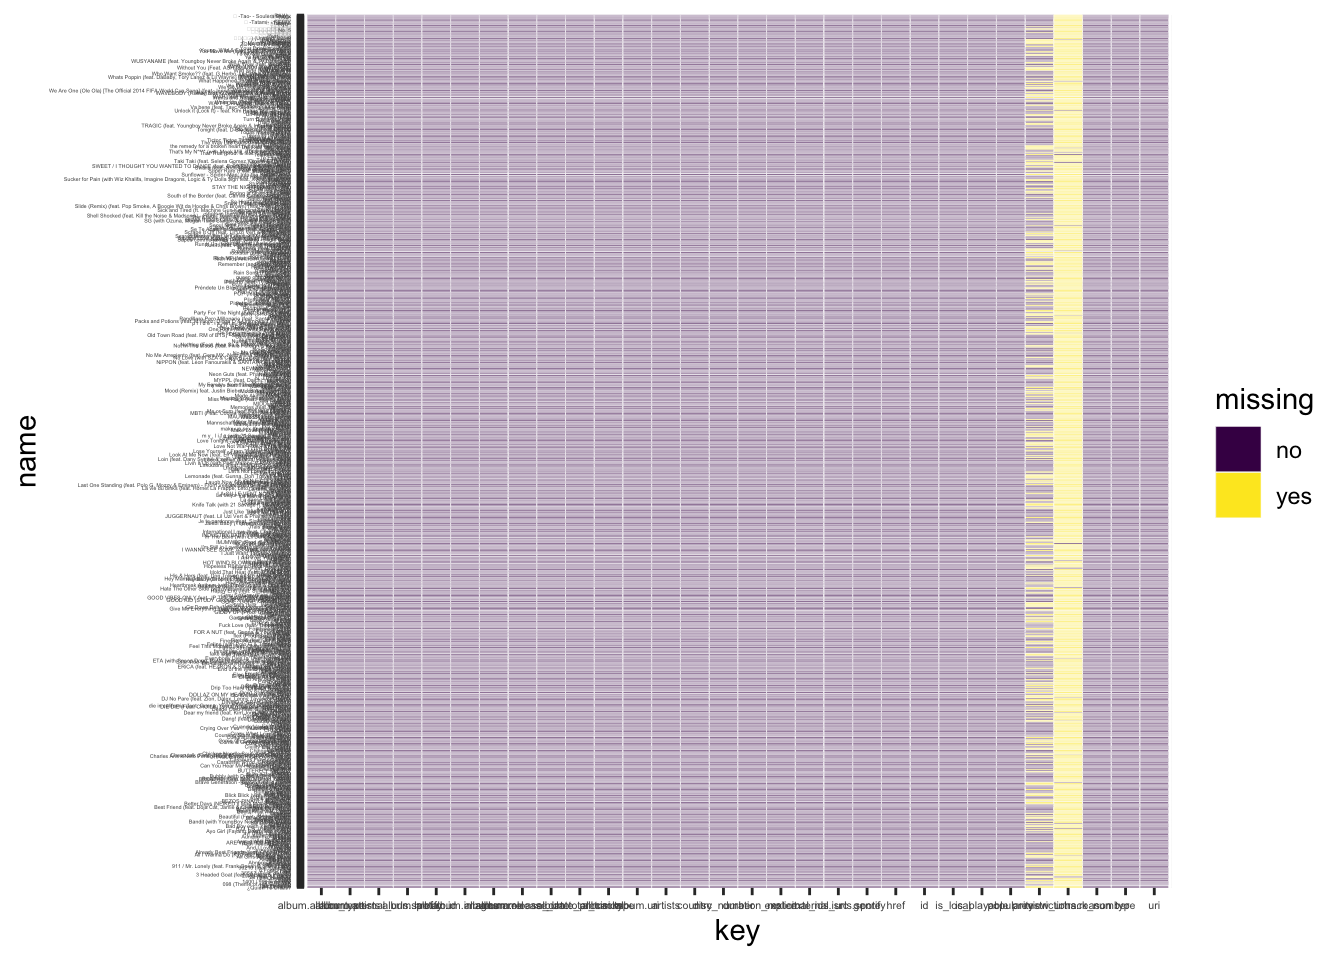
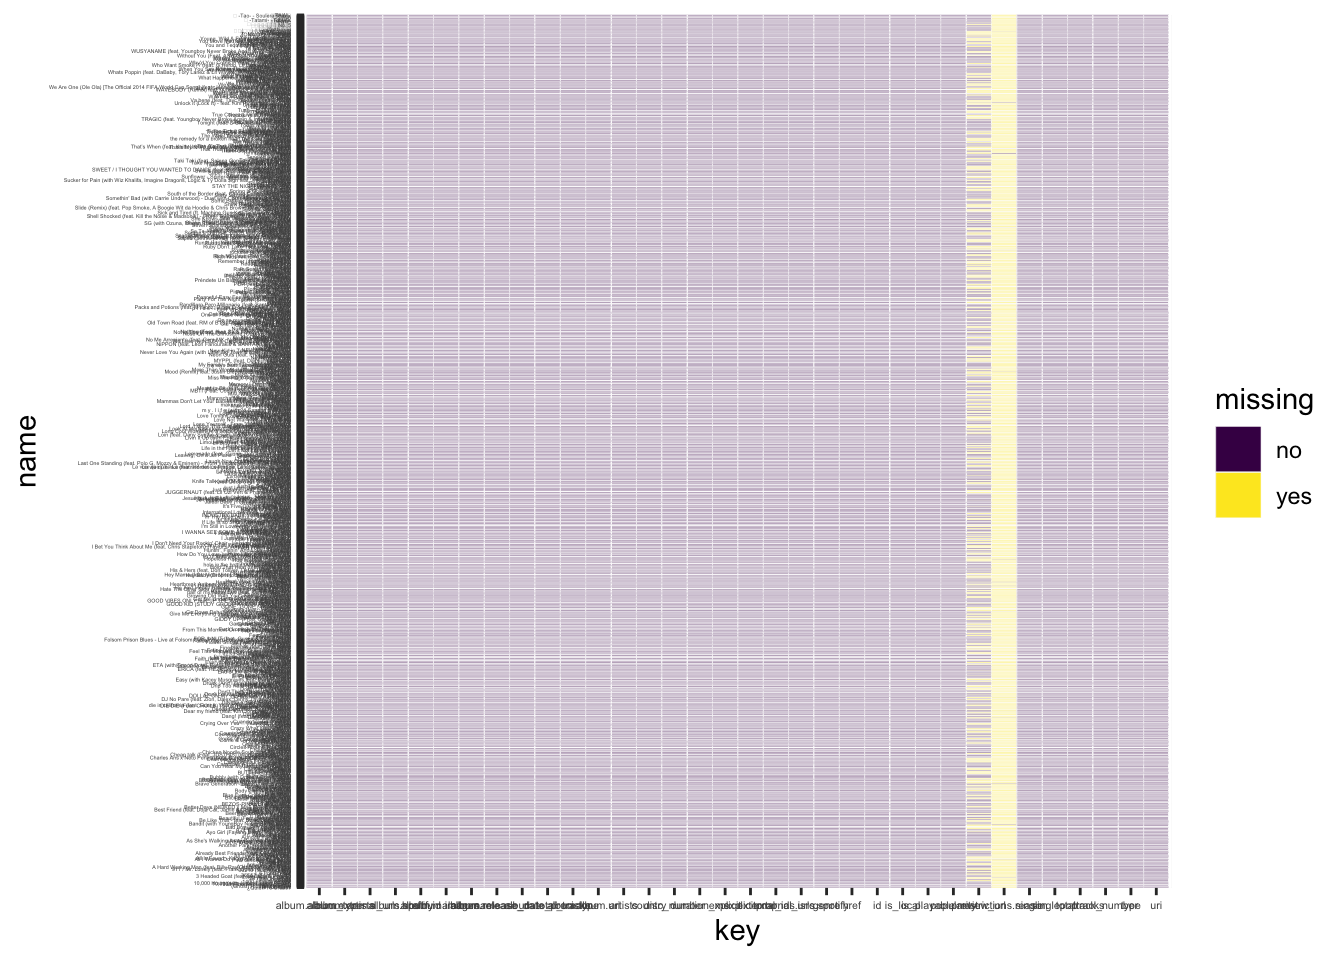
missing values commentary

diff --git a/docs/missing-values.html b/docs/missing-values.html
@@ -100,7 +100,13 @@
             <section class="normal" id="section-">
 <div id="missing-values" class="section level1 hasAnchor" number="4">
 <h1><span class="header-section-number">Chapter 4</span> Missing values<a href="missing-values.html#missing-values" class="anchor-section" aria-label="Anchor link to header"></a></h1>
-<p><img src="finalproj_files/figure-html/unnamed-chunk-5-1.png" width="672" /><img src="finalproj_files/figure-html/unnamed-chunk-5-2.png" width="672" /><img src="finalproj_files/figure-html/unnamed-chunk-5-3.png" width="672" /></p>
+<p>Fortunately, our dataset does not have too many NA’s where it matters. As we obtain our data through Spotify’s API, most of the variables we are interested in contain information on an artist or a song. This information is the most current data available - say the number of the popularity of an artist or the audio features of a song. Most of these variables are generated by Spotify automatically, and therefore we rarely see unavailable data.</p>
+<p>The following NA analysis is conducted on our main dataset that brings together the most popular rap and country songs across 8 different markets. Each row is a different track, and for each track we have information on its popularity, audio features, release date, song length, etc. In the following plot, we can see two columns that are populated with NA’s (marked as yellow). The column that is almost entirely NA values is the <code>restrictions.reason</code> variable. The other column with NA’s is the <code>preview_url</code> column, which basically contains a url with a preview of each track. Clearly, many tracks do not have such information, and this is likely due to music rights and/or label restrictions.</p>
+<p><img src="finalproj_files/figure-html/unnamed-chunk-5-1.png" width="672" /></p>
+<p>Clearly there is an issue with the <code>restrictions.reason</code> column. This variable indicates whether a track is subject to restrictions in a given market. The plot below breaks down the number of NA’s per market (8 total), and it clearly shows Korea has the least amount of NA’s whereas the others only have NA’s. As it turns out, Korea has restrictions on certain explicit music (we will discuss this more later on).</p>
+<p><img src="finalproj_files/figure-html/unnamed-chunk-6-1.png" width="672" /></p>
+<p>The following plot shows that there are no complete rows, but that the NA’s come from only two variables. On the right we see that almost 60% of rows are missing data only in the <code>restrictions.reason</code> column, almost 50% of rows are missing data in both columns, and a very small amount are missing data in only the <code>preview_url</code> column.</p>
+<p><img src="finalproj_files/figure-html/unnamed-chunk-7-1.png" width="672" /></p>
 
 </div>
             </section>
